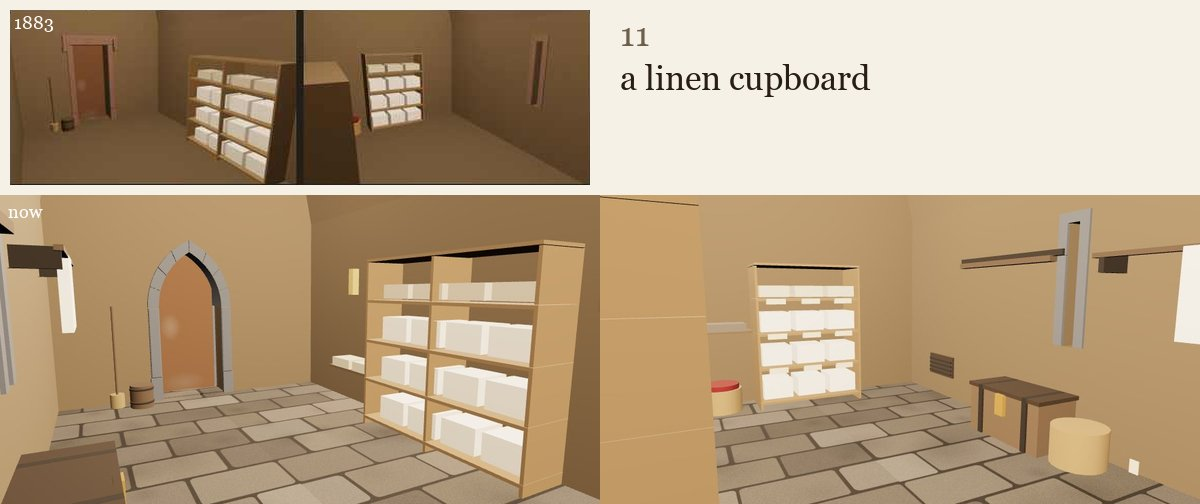
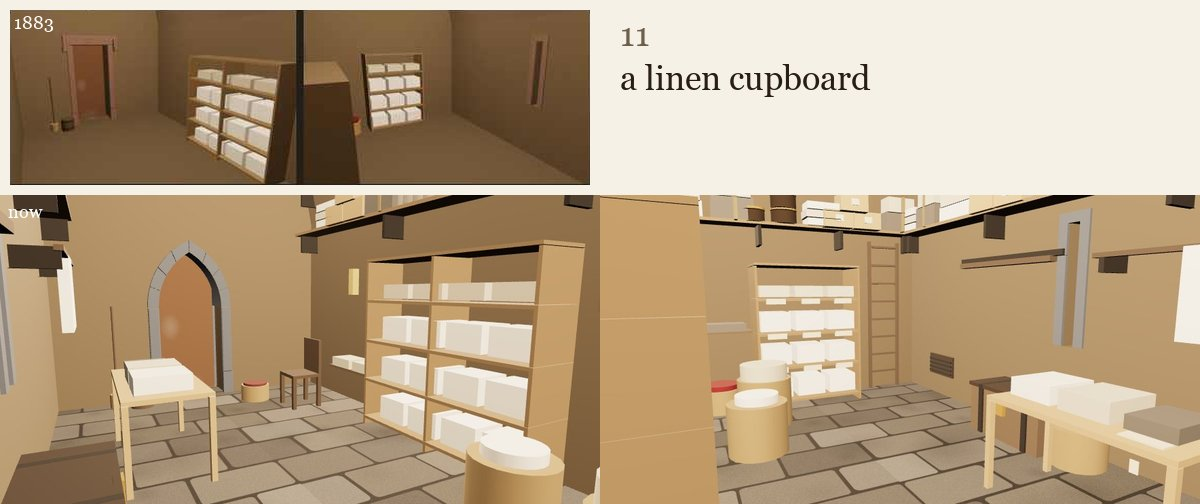
Linen cupboard high shelves and floor, room 11 image

diff --git a/page/shell-w5a.js b/page/shell-w5a.js
@@ -1451,7 +1451,7 @@ window.SHELL_W5A = {
       ['b', 48.08, 15.76, 0.0, 48.1, 15.8, 0.95, 'iron'], ['b', 48.17, 15.76, 0.0, 48.19, 15.8, 0.95, 'iron'], ['b', 48.26, 15.76, 0.0, 48.28, 15.8, 0.95, 'iron']] },
     /* G-THINGS end gryffindor-store-g */
     /* G-THINGS linen-cupboard-g-west */
-    /* docs/interiors/elves-service-stair.md (G-ae, req 1841): the linen press on the end wall, the sock basket, the slatted rack on the left wall, the mop and pail behind the door; no airer (too small); the walk to the press clear */
+    /* docs/interiors/elves-service-stair.md (G-ae, req 1841; req 2202: the high shelves and the floor put to work): the linen press on the end wall, the sock basket, the slatted rack on the left wall, the mop and pail behind the door; no airer (too small); the walk to the press clear */
     'linen-cupboard-g-west': { items: [
       ['s', 1.175, 50.83, 2.575, 51.45, [0.1, 0.55, 1.0, 1.45, 1.9], 'pine'], ['b', 1.235, 50.91, 0.12, 1.615, 51.37, 0.37, 'white'], ['b', 1.685, 50.91, 0.12, 2.065, 51.37, 0.37, 'white'], ['b', 2.135, 50.91, 0.12, 2.515, 51.37, 0.37, 'white'],
       ['b', 1.235, 50.91, 0.57, 1.615, 51.37, 0.82, 'white'], ['b', 1.685, 50.91, 0.57, 2.065, 51.37, 0.82, 'white'], ['b', 2.135, 50.91, 0.57, 2.515, 51.37, 0.82, 'white'], ['b', 1.235, 50.91, 1.02, 1.615, 51.37, 1.27, 'white'],
@@ -1470,7 +1470,50 @@ window.SHELL_W5A = {
       ['b', 1.76, 51.43, 1.38, 2.0, 51.48, 1.45, 'paper'], ['b', 2.21, 51.43, 0.48, 2.45, 51.48, 0.55, 'paper'], ['b', 2.21, 51.43, 0.93, 2.45, 51.48, 1.0, 'paper'], ['b', 2.21, 51.43, 1.38, 2.45, 51.48, 1.45, 'paper'],
       ['b', 3.72, 51.8, 1.4, 3.77, 52.9, 1.9, 'oak'], ['b', 3.66, 51.935, 1.6, 3.77, 51.965, 1.63, 'iron'], ['b', 3.685, 51.9, 1.45, 3.74, 52.0, 1.57, 'paper'], ['b', 3.66, 52.135, 1.6, 3.77, 52.165, 1.63, 'iron'],
       ['b', 3.685, 52.1, 1.45, 3.74, 52.2, 1.57, 'paper'], ['b', 3.66, 52.335, 1.6, 3.77, 52.365, 1.63, 'iron'], ['b', 3.685, 52.3, 1.45, 3.74, 52.4, 1.57, 'paper'], ['b', 3.66, 52.535, 1.6, 3.77, 52.565, 1.63, 'iron'],
-      ['b', 3.685, 52.5, 1.45, 3.74, 52.6, 1.57, 'paper'], ['b', 3.66, 52.735, 1.6, 3.77, 52.765, 1.63, 'iron'], ['b', 3.685, 52.7, 1.45, 3.74, 52.8, 1.57, 'paper']] },
+      ['b', 3.685, 52.5, 1.45, 3.74, 52.6, 1.57, 'paper'], ['b', 3.66, 52.735, 1.6, 3.77, 52.765, 1.63, 'iron'], ['b', 3.685, 52.7, 1.45, 3.74, 52.8, 1.57, 'paper'], ['b', 3.43, 50.9, 2.41, 3.77, 57.2, 2.45, 'pine'],
+      ['b', 3.47, 51.02, 2.15, 3.77, 51.06, 2.41, 'iron'], ['b', 3.47, 53.027, 2.15, 3.77, 53.067, 2.41, 'iron'], ['b', 3.47, 55.033, 2.15, 3.77, 55.073, 2.41, 'iron'], ['b', 3.47, 57.04, 2.15, 3.77, 57.08, 2.41, 'iron'],
+      ['b', 3.43, 50.9, 3.11, 3.77, 57.2, 3.15, 'pine'], ['b', 3.47, 51.02, 2.85, 3.77, 51.06, 3.11, 'iron'], ['b', 3.47, 53.027, 2.85, 3.77, 53.067, 3.11, 'iron'], ['b', 3.47, 55.033, 2.85, 3.77, 55.073, 3.11, 'iron'],
+      ['b', 3.47, 57.04, 2.85, 3.77, 57.08, 3.11, 'iron'], ['b', 3.45, 50.95, 2.45, 3.75, 51.45, 2.73, 'blanket'], ['b', 3.46, 50.98, 2.73, 3.74, 51.42, 2.95, 'linen'], ['b', 3.44, 51.15, 2.45, 3.76, 51.19, 2.96, 'rope'],
+      ['b', 3.45, 51.5, 2.45, 3.75, 52.0, 2.55, 'white'], ['b', 3.45, 51.52, 2.56, 3.75, 52.02, 2.66, 'linen'], ['b', 3.45, 51.5, 2.67, 3.75, 52.0, 2.77, 'white'], ['b', 3.45, 52.05, 2.45, 3.75, 52.47, 2.69, 'deal'],
+      ['b', 3.43, 52.2, 2.53, 3.47, 52.32, 2.62, 'paper'], ['b', 3.45, 52.49, 2.45, 3.75, 52.91, 2.69, 'deal'], ['b', 3.43, 52.64, 2.53, 3.47, 52.76, 2.62, 'paper'], ['b', 3.45, 52.25, 2.69, 3.75, 52.67, 2.93, 'deal'],
+      ['b', 3.43, 52.4, 2.77, 3.47, 52.52, 2.86, 'paper'], ['b', 3.5, 52.67, 2.45, 3.72, 53.42, 2.65, 'white'], ['b', 3.5, 52.69, 2.65, 3.72, 53.4, 2.85, 'linen'], ['y', 3.58, 53.59, 0.17, 2.45, 2.64, 'canvas'],
+      ['y', 3.58, 53.59, 0.175, 2.62, 2.65, 'brass'], ['y', 3.58, 53.59, 0.17, 2.65, 2.84, 'canvas'], ['y', 3.58, 53.59, 0.175, 2.82, 2.85, 'brass'], ['y', 3.58, 53.99, 0.15, 2.45, 2.62, 'canvas'],
+      ['y', 3.58, 53.99, 0.155, 2.6, 2.63, 'brass'], ['b', 3.49, 53.89, 2.45, 3.73, 54.19, 2.75, 'cloth'], ['b', 3.55, 53.97, 2.75, 3.67, 54.11, 2.83, 'blue'], ['y', 3.58, 54.48, 0.06, 2.45, 2.67, 'stone'],
+      ['y', 3.58, 54.48, 0.022, 2.67, 2.72, 'brass'], ['y', 3.58, 54.63, 0.06, 2.45, 2.67, 'stone'], ['y', 3.58, 54.63, 0.022, 2.67, 2.72, 'brass'], ['y', 3.58, 54.78, 0.06, 2.45, 2.67, 'stone'],
+      ['y', 3.58, 54.78, 0.022, 2.67, 2.72, 'brass'], ['y', 3.58, 54.93, 0.06, 2.45, 2.67, 'stone'], ['y', 3.58, 54.93, 0.022, 2.67, 2.72, 'brass'], ['b', 3.45, 54.89, 2.45, 3.75, 55.39, 2.73, 'blanket'],
+      ['b', 3.46, 54.92, 2.73, 3.74, 55.36, 2.95, 'linen'], ['b', 3.44, 55.09, 2.45, 3.76, 55.13, 2.96, 'rope'], ['b', 3.45, 55.44, 2.45, 3.75, 55.86, 2.69, 'deal'], ['b', 3.43, 55.59, 2.53, 3.47, 55.71, 2.62, 'paper'],
+      ['b', 3.45, 55.88, 2.45, 3.75, 56.3, 2.69, 'deal'], ['b', 3.43, 56.03, 2.53, 3.47, 56.15, 2.62, 'paper'], ['b', 3.45, 55.64, 2.69, 3.75, 56.06, 2.93, 'deal'], ['b', 3.43, 55.79, 2.77, 3.47, 55.91, 2.86, 'paper'],
+      ['b', 3.45, 56.06, 2.45, 3.75, 56.56, 2.55, 'white'], ['b', 3.45, 56.08, 2.56, 3.75, 56.58, 2.66, 'linen'], ['b', 3.45, 56.06, 2.67, 3.75, 56.56, 2.77, 'white'], ['b', 3.45, 51.05, 3.15, 3.75, 51.47, 3.39, 'deal'],
+      ['b', 3.43, 51.2, 3.23, 3.47, 51.32, 3.32, 'paper'], ['b', 3.45, 51.49, 3.15, 3.75, 51.91, 3.39, 'deal'], ['b', 3.43, 51.64, 3.23, 3.47, 51.76, 3.32, 'paper'], ['b', 3.45, 51.25, 3.39, 3.75, 51.67, 3.63, 'deal'],
+      ['b', 3.43, 51.4, 3.47, 3.47, 51.52, 3.56, 'paper'], ['b', 3.45, 51.9, 3.15, 3.75, 52.4, 3.43, 'blanket'], ['b', 3.46, 51.93, 3.43, 3.74, 52.37, 3.65, 'linen'], ['b', 3.44, 52.1, 3.15, 3.76, 52.14, 3.66, 'rope'],
+      ['y', 3.58, 52.95, 0.17, 3.15, 3.34, 'canvas'], ['y', 3.58, 52.95, 0.175, 3.32, 3.35, 'brass'], ['y', 3.58, 52.95, 0.17, 3.35, 3.54, 'canvas'], ['y', 3.58, 52.95, 0.175, 3.52, 3.55, 'brass'],
+      ['y', 3.58, 53.35, 0.15, 3.15, 3.32, 'canvas'], ['y', 3.58, 53.35, 0.155, 3.3, 3.33, 'brass'], ['b', 3.45, 53.6, 3.15, 3.75, 54.1, 3.25, 'white'], ['b', 3.45, 53.62, 3.26, 3.75, 54.12, 3.36, 'linen'],
+      ['b', 3.45, 53.6, 3.37, 3.75, 54.1, 3.47, 'white'], ['b', 3.45, 54.45, 3.15, 3.75, 54.87, 3.39, 'deal'], ['b', 3.43, 54.6, 3.23, 3.47, 54.72, 3.32, 'paper'], ['b', 3.45, 54.89, 3.15, 3.75, 55.31, 3.39, 'deal'],
+      ['b', 3.43, 55.04, 3.23, 3.47, 55.16, 3.32, 'paper'], ['b', 3.45, 54.65, 3.39, 3.75, 55.07, 3.63, 'deal'], ['b', 3.43, 54.8, 3.47, 3.47, 54.92, 3.56, 'paper'], ['b', 3.45, 55.3, 3.15, 3.75, 55.8, 3.43, 'blanket'],
+      ['b', 3.46, 55.33, 3.43, 3.74, 55.77, 3.65, 'linen'], ['b', 3.44, 55.5, 3.15, 3.76, 55.54, 3.66, 'rope'], ['b', 3.49, 56.15, 3.15, 3.73, 56.45, 3.45, 'cloth'], ['b', 3.55, 56.23, 3.45, 3.67, 56.37, 3.53, 'blue'],
+      ['b', -0.02, 50.9, 2.41, 0.32, 57.2, 2.45, 'pine'], ['b', -0.02, 51.02, 2.15, 0.28, 51.06, 2.41, 'iron'], ['b', -0.02, 53.027, 2.15, 0.28, 53.067, 2.41, 'iron'], ['b', -0.02, 55.033, 2.15, 0.28, 55.073, 2.41, 'iron'],
+      ['b', -0.02, 57.04, 2.15, 0.28, 57.08, 2.41, 'iron'], ['b', 0.0, 50.95, 2.45, 0.3, 51.45, 2.55, 'white'], ['b', 0.0, 50.97, 2.56, 0.3, 51.47, 2.66, 'linen'], ['b', 0.0, 50.95, 2.67, 0.3, 51.45, 2.77, 'white'],
+      ['b', 0.0, 51.5, 2.45, 0.3, 52.0, 2.73, 'blanket'], ['b', 0.01, 51.53, 2.73, 0.29, 51.97, 2.95, 'linen'], ['b', -0.01, 51.7, 2.45, 0.31, 51.74, 2.96, 'rope'], ['b', 0.03, 52.05, 2.45, 0.25, 52.8, 2.65, 'white'],
+      ['b', 0.03, 52.07, 2.65, 0.25, 52.78, 2.85, 'linen'], ['b', 0.0, 52.77, 2.45, 0.3, 53.19, 2.69, 'deal'], ['b', 0.28, 52.92, 2.53, 0.32, 53.04, 2.62, 'paper'], ['b', 0.0, 53.21, 2.45, 0.3, 53.63, 2.69, 'deal'],
+      ['b', 0.28, 53.36, 2.53, 0.32, 53.48, 2.62, 'paper'], ['b', 0.0, 52.97, 2.69, 0.3, 53.39, 2.93, 'deal'], ['b', 0.28, 53.12, 2.77, 0.32, 53.24, 2.86, 'paper'], ['y', 0.17, 53.48, 0.06, 2.45, 2.67, 'stone'],
+      ['y', 0.17, 53.48, 0.022, 2.67, 2.72, 'brass'], ['y', 0.17, 53.63, 0.06, 2.45, 2.67, 'stone'], ['y', 0.17, 53.63, 0.022, 2.67, 2.72, 'brass'], ['y', 0.17, 53.78, 0.06, 2.45, 2.67, 'stone'],
+      ['y', 0.17, 53.78, 0.022, 2.67, 2.72, 'brass'], ['y', 0.17, 53.93, 0.06, 2.45, 2.67, 'stone'], ['y', 0.17, 53.93, 0.022, 2.67, 2.72, 'brass'], ['y', 0.17, 54.09, 0.17, 2.45, 2.64, 'canvas'],
+      ['y', 0.17, 54.09, 0.175, 2.62, 2.65, 'brass'], ['y', 0.17, 54.09, 0.17, 2.65, 2.84, 'canvas'], ['y', 0.17, 54.09, 0.175, 2.82, 2.85, 'brass'], ['y', 0.17, 54.49, 0.15, 2.45, 2.62, 'canvas'],
+      ['y', 0.17, 54.49, 0.155, 2.6, 2.63, 'brass'], ['b', 0.0, 54.39, 2.45, 0.3, 54.89, 2.73, 'blanket'], ['b', 0.01, 54.42, 2.73, 0.29, 54.86, 2.95, 'linen'], ['b', -0.01, 54.59, 2.45, 0.31, 54.63, 2.96, 'rope'],
+      ['b', 0.02, 54.94, 2.45, 0.26, 55.24, 2.75, 'cloth'], ['b', 0.08, 55.02, 2.75, 0.2, 55.16, 2.83, 'blue'], ['b', 0.0, 55.44, 2.45, 0.3, 55.94, 2.55, 'white'], ['b', 0.0, 55.46, 2.56, 0.3, 55.96, 2.66, 'linen'],
+      ['b', 0.0, 55.44, 2.67, 0.3, 55.94, 2.77, 'white'], ['b', 0.05, 50.83, 2.41, 3.7, 51.17, 2.45, 'pine'], ['b', 0.17, 50.83, 2.15, 0.21, 51.13, 2.41, 'iron'], ['b', 1.293, 50.83, 2.15, 1.333, 51.13, 2.41, 'iron'],
+      ['b', 2.417, 50.83, 2.15, 2.457, 51.13, 2.41, 'iron'], ['b', 3.54, 50.83, 2.15, 3.58, 51.13, 2.41, 'iron'], ['b', 0.1, 50.85, 2.45, 0.6, 51.15, 2.73, 'blanket'], ['b', 0.13, 50.86, 2.73, 0.57, 51.14, 2.95, 'linen'],
+      ['b', 0.3, 50.84, 2.45, 0.34, 51.16, 2.96, 'rope'], ['b', 0.7, 50.85, 2.45, 1.12, 51.15, 2.69, 'deal'], ['b', 0.85, 51.13, 2.53, 0.97, 51.17, 2.62, 'paper'], ['b', 1.14, 50.85, 2.45, 1.56, 51.15, 2.69, 'deal'],
+      ['b', 1.29, 51.13, 2.53, 1.41, 51.17, 2.62, 'paper'], ['b', 0.9, 50.85, 2.69, 1.32, 51.15, 2.93, 'deal'], ['b', 1.05, 51.13, 2.77, 1.17, 51.17, 2.86, 'paper'], ['b', 1.3, 50.85, 2.45, 1.8, 51.15, 2.55, 'white'],
+      ['b', 1.32, 50.85, 2.56, 1.82, 51.15, 2.66, 'linen'], ['b', 1.3, 50.85, 2.67, 1.8, 51.15, 2.77, 'white'], ['y', 2.1, 51.02, 0.17, 2.45, 2.64, 'canvas'], ['y', 2.1, 51.02, 0.175, 2.62, 2.65, 'brass'],
+      ['y', 2.1, 51.02, 0.17, 2.65, 2.84, 'canvas'], ['y', 2.1, 51.02, 0.175, 2.82, 2.85, 'brass'], ['y', 2.5, 51.02, 0.15, 2.45, 2.62, 'canvas'], ['y', 2.5, 51.02, 0.155, 2.6, 2.63, 'brass'],
+      ['b', 2.5, 50.85, 2.45, 3.0, 51.15, 2.73, 'blanket'], ['b', 2.53, 50.86, 2.73, 2.97, 51.14, 2.95, 'linen'], ['b', 2.7, 50.84, 2.45, 2.74, 51.16, 2.96, 'rope'], ['b', 3.1, 50.88, 2.45, 3.85, 51.1, 2.65, 'white'],
+      ['b', 3.12, 50.88, 2.65, 3.83, 51.1, 2.85, 'linen'], ['t', 0.6, 54.4, 1.3, 55.8, 0.75, 'deal'], ['b', 0.7, 54.5, 0.75, 1.15, 54.88, 0.9, 'white'], ['b', 0.7, 54.95, 0.75, 1.15, 55.33, 0.9, 'linen'],
+      ['b', 0.72, 55.4, 0.75, 1.12, 55.7, 0.85, 'blanket'], ['b', 1.15, 55.45, 0.75, 1.25, 55.7, 0.77, 'paper'], ['y', 2.6, 52.0, 0.3, 0, 0.55, 'wicker'], ['y', 2.6, 52.0, 0.26, 0.55, 0.72, 'linen'],
+      ['y', 2.8, 52.85, 0.28, 0, 0.5, 'wicker'], ['y', 2.8, 52.85, 0.2, 0.5, 0.58, 'white'], ['t', 2.74, 55.89, 3.16, 56.31, 0.45, 'wood'], ['b', 3.12, 55.89, 0.45, 3.16, 56.31, 0.9, 'wood'],
+      ['y', 2.5, 56.65, 0.2, 0, 0.22, 'wicker'], ['y', 2.5, 56.65, 0.17, 0.22, 0.25, 'cloth'], ['b', 0.3, 50.89, 0, 0.34, 50.95, 2.3, 'wood'], ['b', 0.78, 50.89, 0, 0.82, 50.95, 2.3, 'wood'],
+      ['b', 0.3, 50.9, 0.25, 0.82, 50.94, 0.28, 'wood'], ['b', 0.3, 50.9, 0.53, 0.82, 50.94, 0.56, 'wood'], ['b', 0.3, 50.9, 0.81, 0.82, 50.94, 0.84, 'wood'], ['b', 0.3, 50.9, 1.09, 0.82, 50.94, 1.12, 'wood'],
+      ['b', 0.3, 50.9, 1.37, 0.82, 50.94, 1.4, 'wood'], ['b', 0.3, 50.9, 1.65, 0.82, 50.94, 1.68, 'wood'], ['b', 0.3, 50.9, 1.93, 0.82, 50.94, 1.96, 'wood'], ['b', 0.3, 50.9, 2.21, 0.82, 50.94, 2.24, 'wood']] },
     /* G-THINGS end linen-cupboard-g-west */
     /* G-THINGS elves-linen-room-g */
     /* docs/interiors/elves-service-stair.md (G-ac, req 1841): the linen press beside the window (its glass kept open), the sock basket by it, the slatted rack of folded linen on the left wall, the pulley airer over the middle with two sheets; both doors' swings and the walk between them clear */

diff --git a/page/shell.html b/page/shell.html
@@ -191,7 +191,7 @@ line, the mote, travel and reveal) is castle.js's, unedited.
 <script src="depth-ties.js?v=1"></script>
 <script src="corridor/suit.js?v=6"></script>
 <script src="corridor/knight.js?v=2"></script>
-<script src="shell-w5a.js?v=79"></script>
+<script src="shell-w5a.js?v=80"></script>
 <script src="shell-things-2.js?v=22"></script>
 <script src="shell-things-7.js?v=4"></script>
 <script src="shell-things-3.js?v=4"></script>
